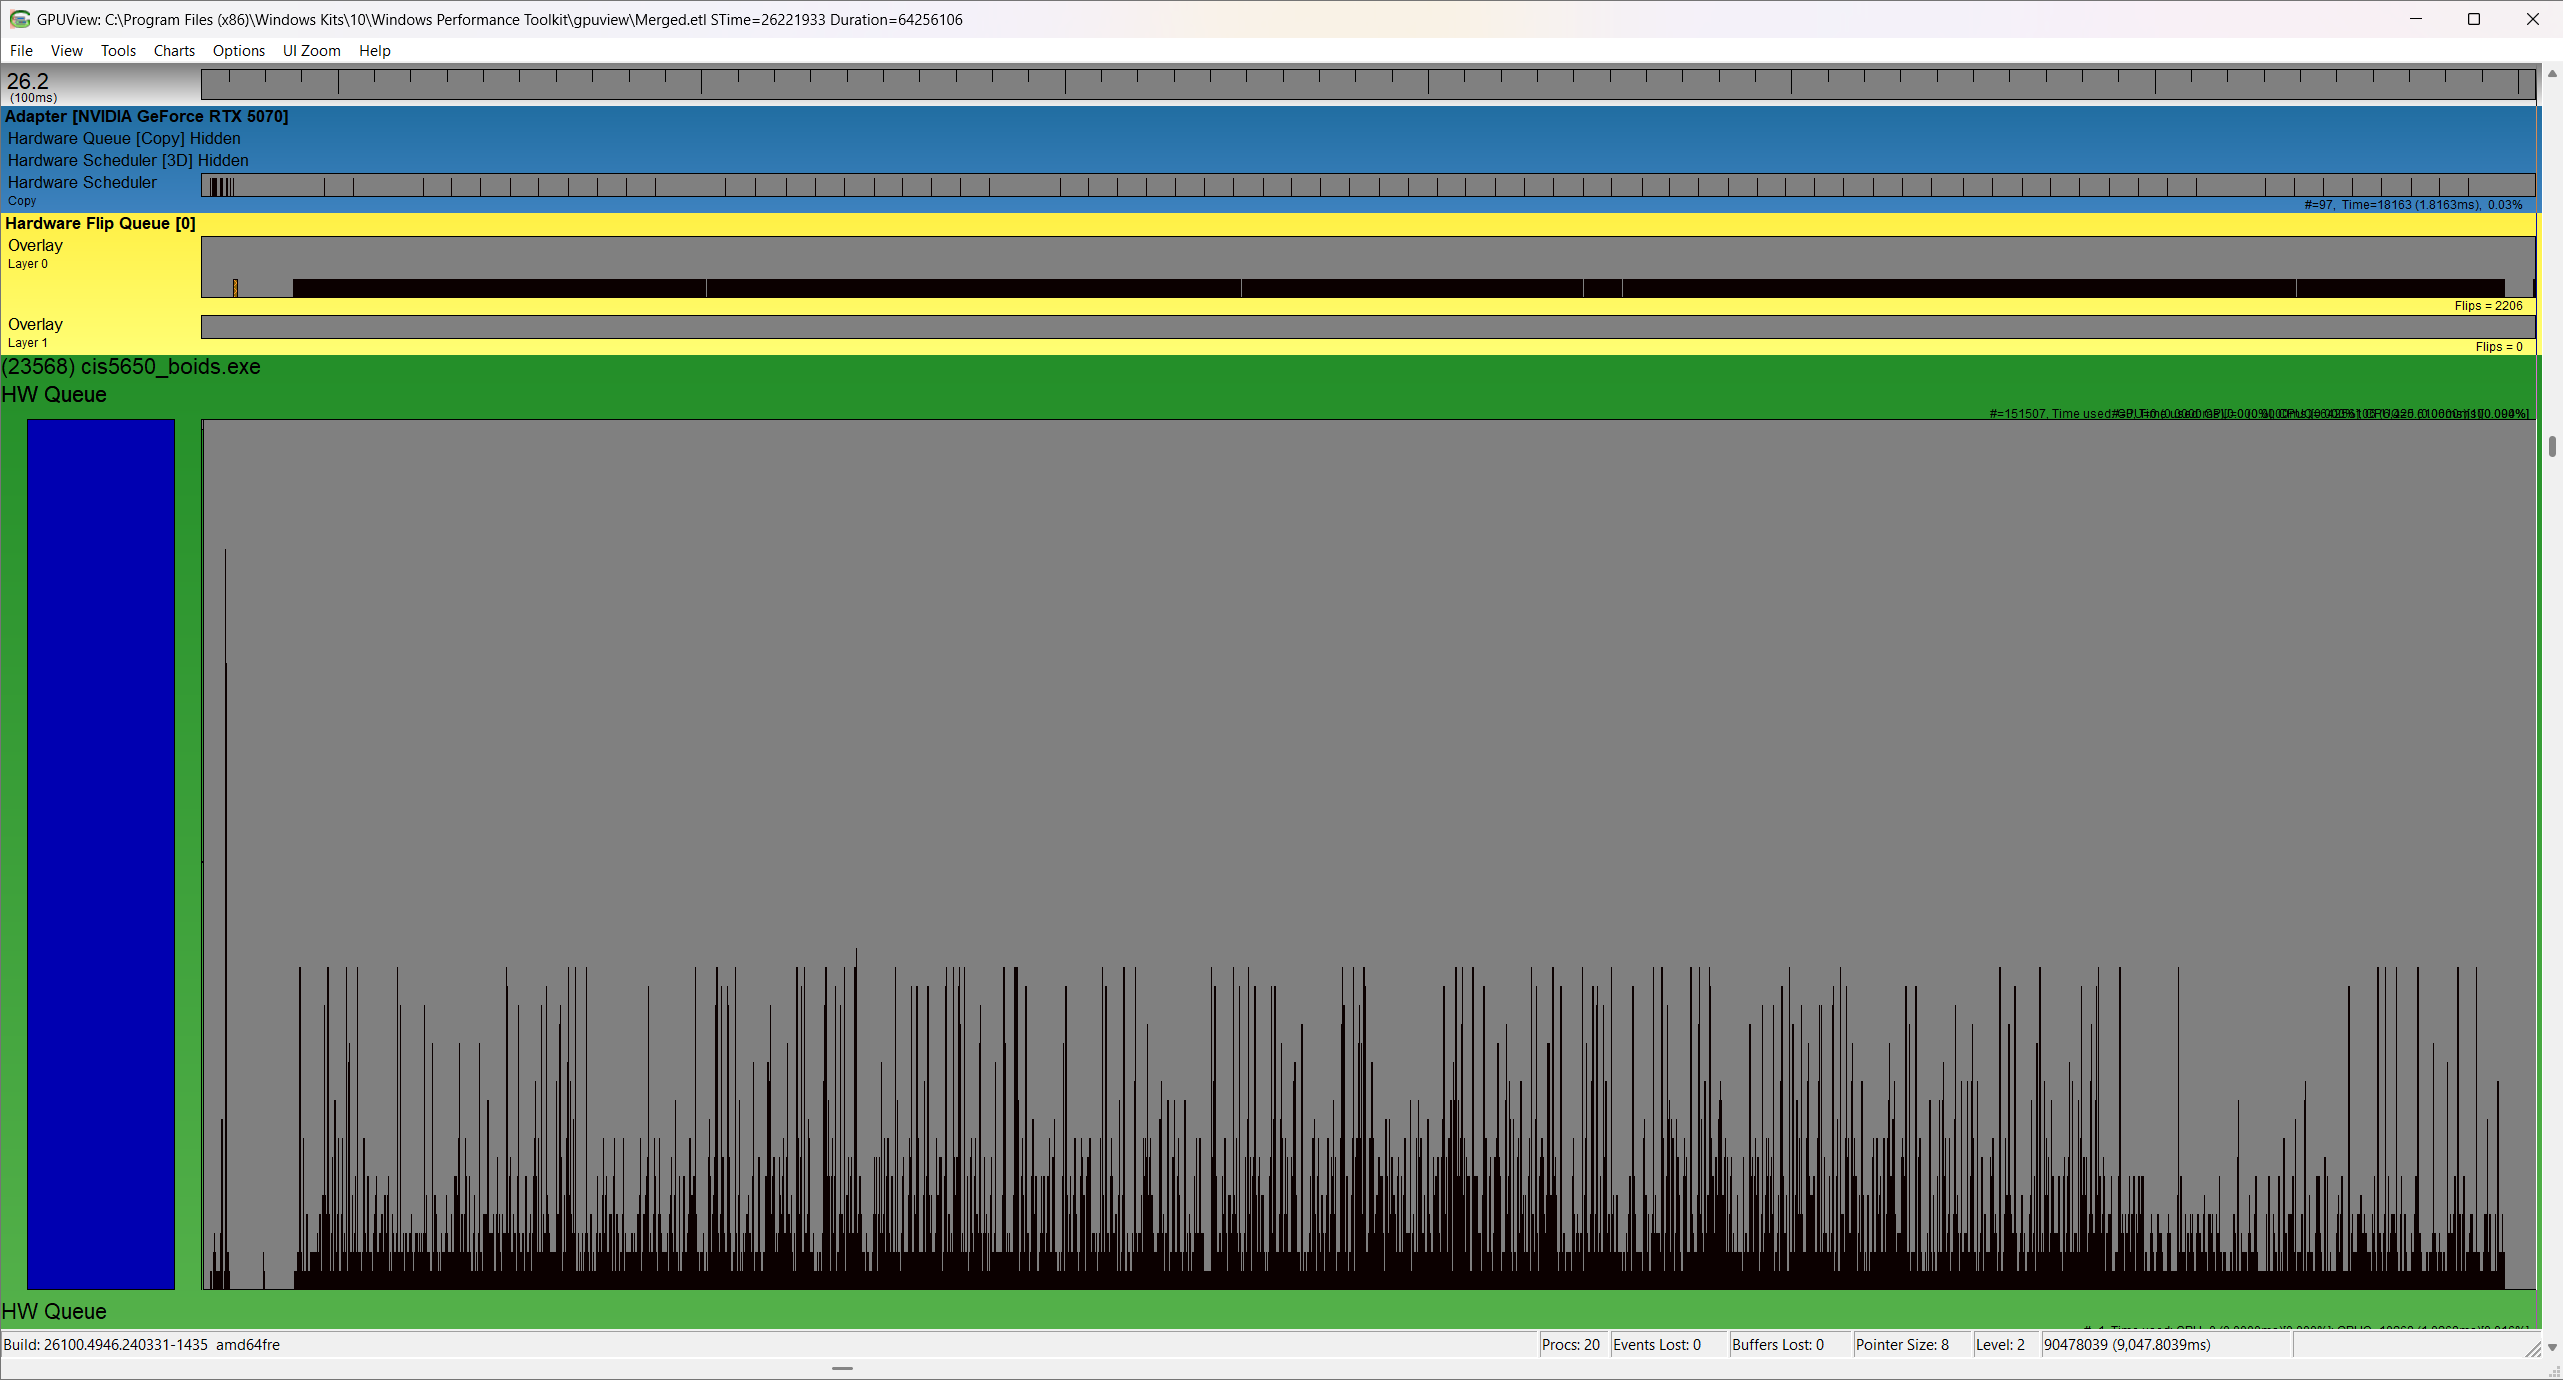
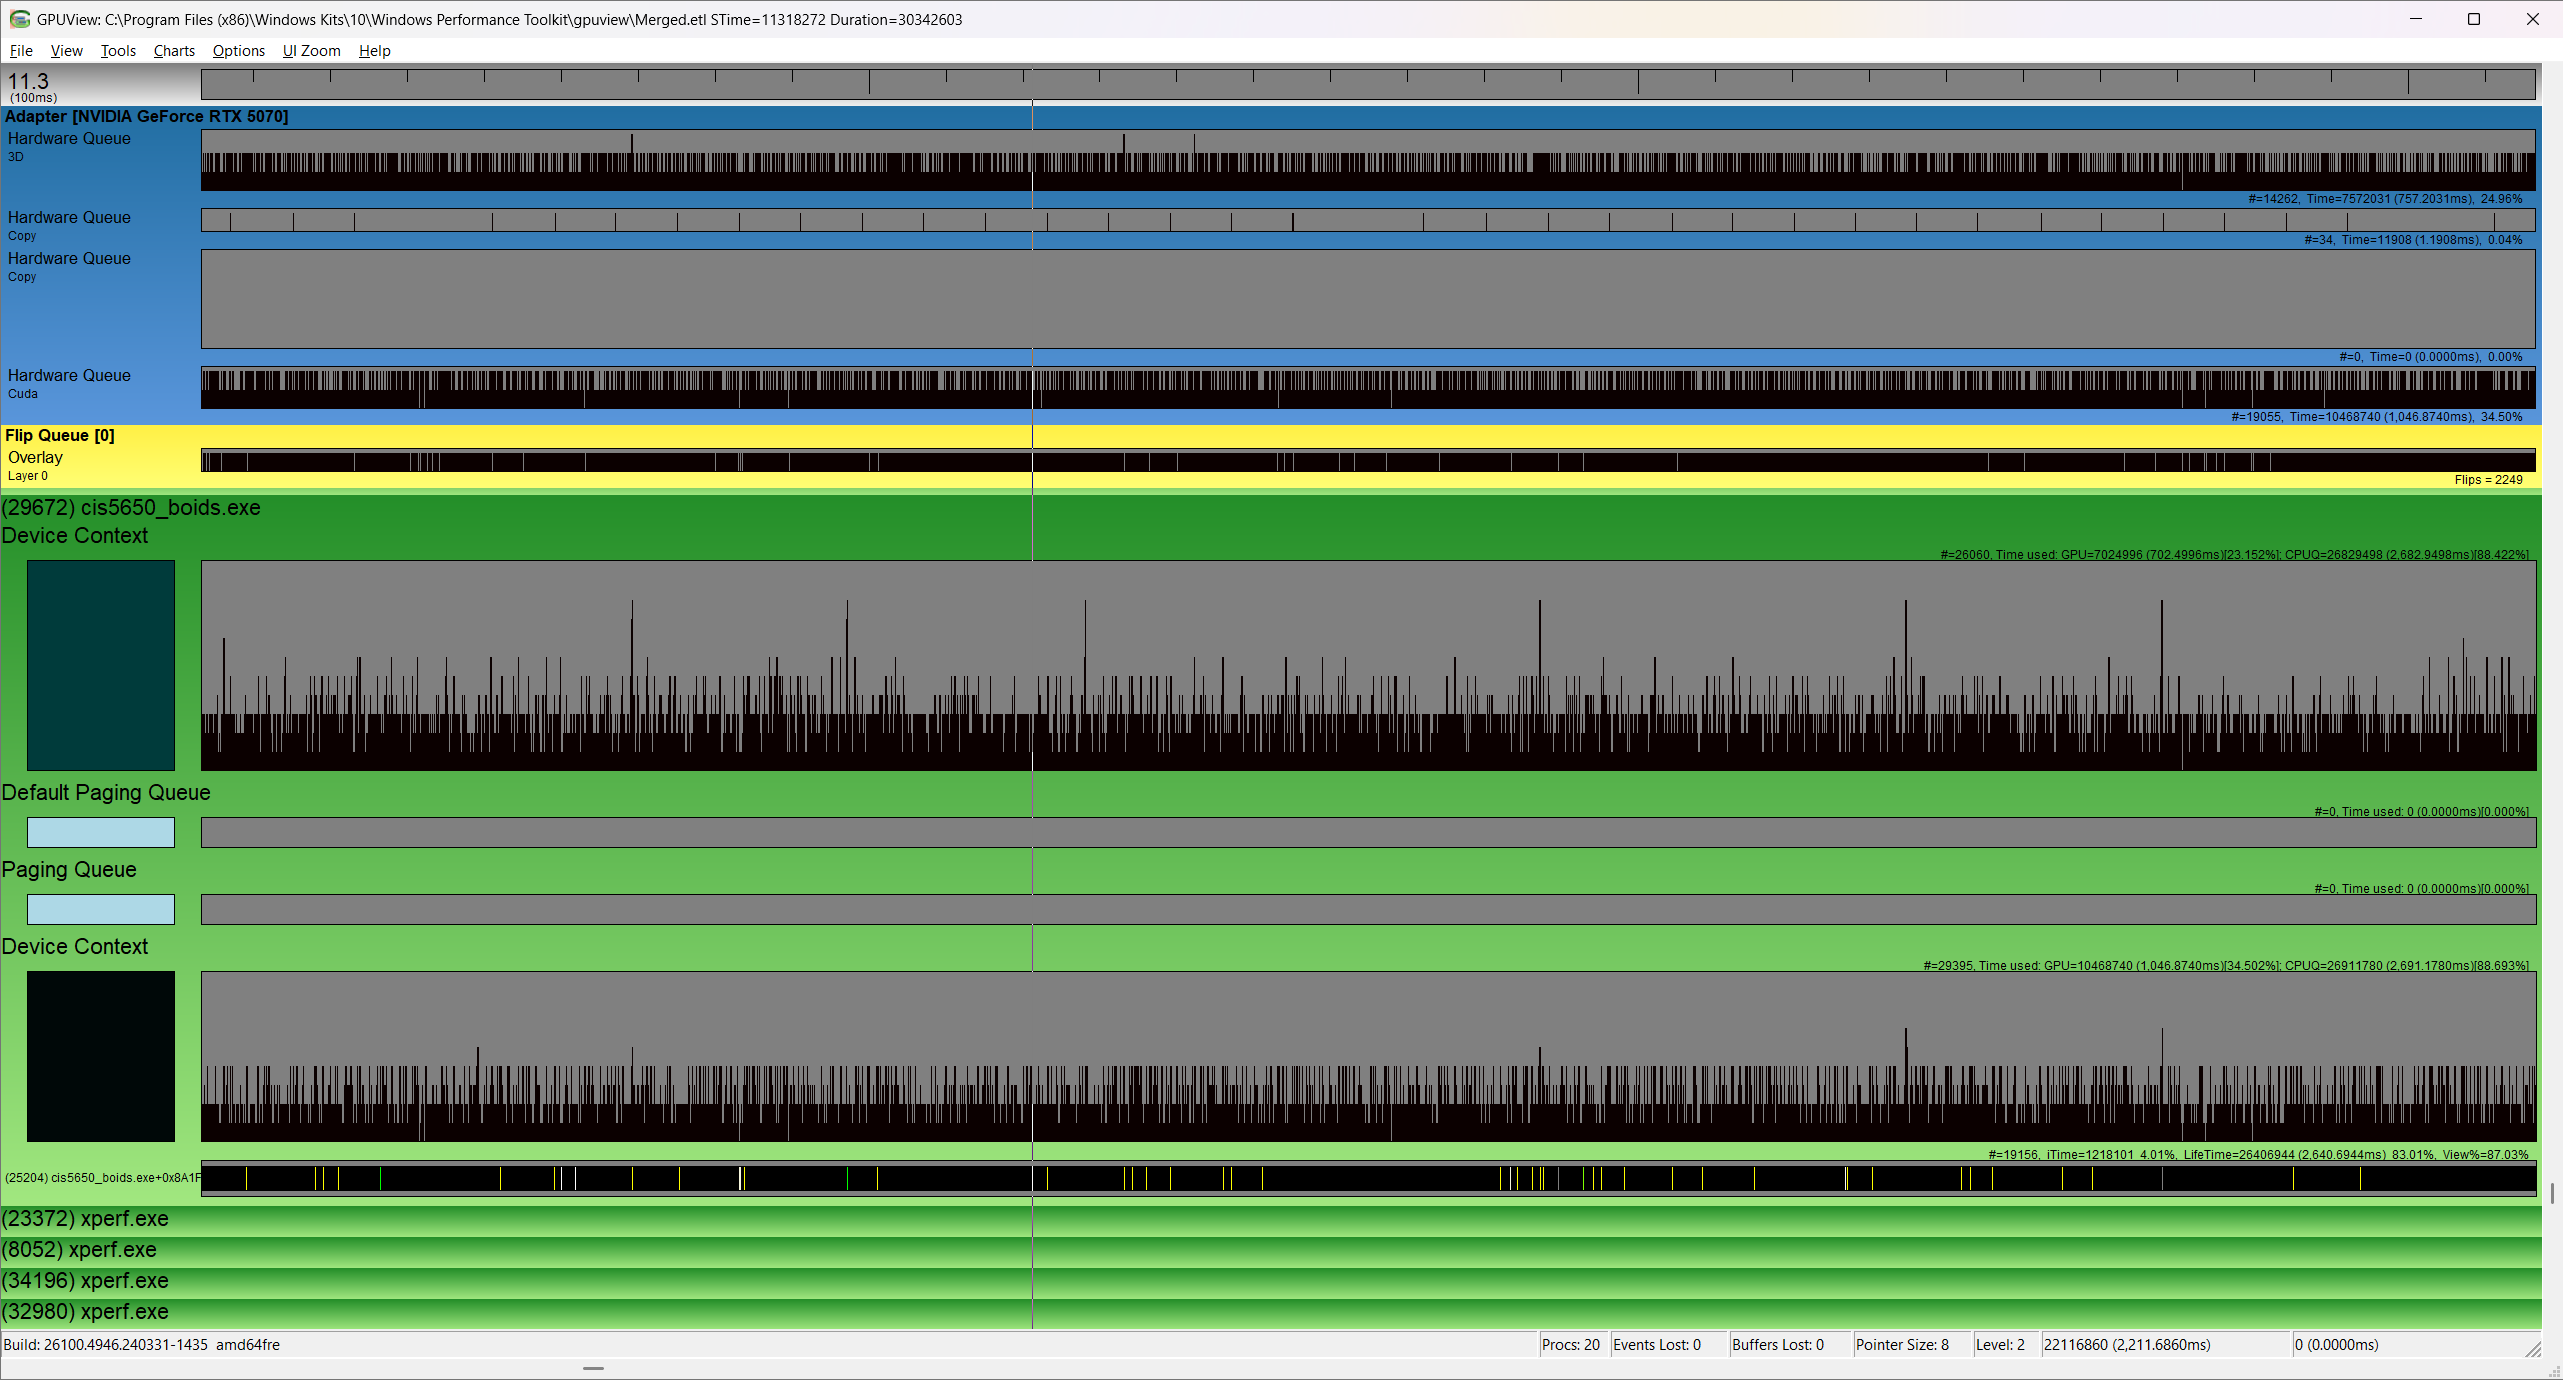
redo gpuview investigation
* redo GPUView investigation with Windows gpu scheduling off so I can actually see gpu work packets
* correct some statements in readme
* update data spreadsheet

conclusions are still the same though!

diff --git a/README.md b/README.md
@@ -38,13 +38,13 @@ This approach is the same as the uniform grid, except that the positions and vel
 
 ## Performance Audit
 
-As a first step in collecting performance data, I measured the time it took to render each frame across a ten second period for each implementation across a variety of boid counts. The results below are captured using NVIDIA's [FrameView](https://www.nvidia.com/en-us/geforce/technologies/frameview/). FrameView is an app for measuring framerates and many other performance metrics for games. I will be using the average framerate along with the milliseconds taken for each frame (MsBetweenPresents). FrameView's stats are gathered or calculated from ETW events in Windows (`DXGI` or `DxgKrnl` events for Windows DX graphics interface or graphics kernel respectively) so they are accurate at a operating system level. While FrameView is not open source, it is based off Intel's open source [PresentMon](https://github.com/GameTechDev/PresentMon) project, which should specifically be listening for some DXGI Present event (in GPUView, presents of this app show up as `D3D9 - Present` shortly after each Vsync interval). The framerate is calculated from the time between each present event (i.e. a new frame).
+As a first step in collecting performance data, I measured the time it took to render each frame across a ten second period for each implementation across a variety of boid counts. The results below are captured using NVIDIA's [FrameView](https://www.nvidia.com/en-us/geforce/technologies/frameview/). FrameView is an app for measuring framerates and many other performance metrics for games. I will be using the average framerate along with the milliseconds taken for each frame (MsBetweenPresents). FrameView's stats are gathered or calculated from ETW events in Windows (`DXGI` or `DxgKrnl` events for Windows DX graphics interface or graphics kernel respectively) so they are accurate at a operating system level. While FrameView is not open source, it is based off Intel's open source [PresentMon](https://github.com/GameTechDev/PresentMon) project, which should specifically be listening for the [DxgKrnl Present event](https://github.com/GameTechDev/PresentMon/blob/main/PresentData/ETW/Microsoft_Windows_DxgKrnl.h) associated with the process shortly after each Vsync interval. The framerate is calculated from the time between each present event (i.e. a new frame).
 
 All spreadsheets with raw data are contained in the `data` folder, which are organized in folders by implementation, then by number of Boids used.
 
 Before diving in, here are answers to a couple questions I anticipate you reading this to have:
 
-*Q: This app uses OpenGL and CUDA. Why is a D3D event being used to measure framerate?*  
+*Q: This app uses OpenGL and CUDA. Why is a DX event being used to measure framerate?*  
 A: Remember that the operating system (Windows in this case) is responsible for scheduling GPU work and compositing/presenting frames/windows. The swapchain in a non-DX API (OpenGL, Vulkan) is always going to be layered on top of a OS native method, or in the case of Vulkan you can use a DXGI swapchain directly.
 
 *Q: What is GPUView?*  
@@ -127,37 +127,33 @@ When I was looking at a frametime graph for the coherent grid, I noticed some su
 
 ![frametime](data/ms_presents_issue.png)
 
-Since they are so short (one frame duration), I suspect this is just due to something going on with the operating system, rather than some issue with the Boids application itself. To try and check, I inspected a GPUView capture. The view focused on the Boids process (`cis5650_boids.exe`) is here: 
+Since they are so short (one frame duration), I suspect this is just due to something going on with the operating system, rather than some issue with the Boids application itself. To try and check, I inspected a GPUView capture (without FrameView). The view focused on the boids process (`cis5650_boids.exe`) is here: 
 
 ![gpu_view_whole_view](images/new_gpu/gpuview.png)
 
-The queue for compute (dark blue, "HW Queue") has some short peaks in it, which suggests the quantity of work submitted per frame is not always consistent.
+There are some spikes in the graphics context (dark blue/green) which suggests the amount of work submitted per frame is not consistent.
 
 ![gpu_utilization](images/new_gpu/gpuview_utilization.png)
 
-Another thing to note is that if we expand the adapter graph it looks like the GPU is only at 36.98% utilization (circled in red) in this time period view, which suggests we could give the GPU more work.
+Another thing to note is that the GPU utilization for both graphics and CUDA in this time period view is very low (24.96% and 34.50% respectively, circled in red in above image), which suggests we could give the GPU more work.
 
-Looking at the locations of all the present events, they seem to be evenly spaced and I can't find/reproduce these sudden spikes.
+Looking at the locations of all the present events, they seem to be evenly spaced and I can't find/reproduce these sudden spikes: no distance is over two Vsync intervals like the 200ms spikes in the graph. Maybe something is happening only when FrameView is active?
 
 Since I'm already here, I'm curious about what this workload looks like to the OS. Going on a detour and zooming in on a set of three frames:
 
 ![gpu_view_frame](images/new_gpu/gpuview_merged.png)
 
-Each frame is separated by a vertical blue bar, which is the Vsync interval: my monitor is a 100hz panel. I've labeled each HW queue. The present queue only contains the small orange present packets, and the work in the graphics queue is less than compute because this is mostly a CUDA bound application. In the original trace, I can't fit all the HW queues vertically on my monitor at once so I've merged two screenshots together in image editing software.
+Each frame is separated by a vertical blue bar, which is the Vsync interval: my monitor is a 100hz panel. I've labeled each device context queue. In both graphics and CUDA, we can count eight or nine groups of queued work per Vsync interval. There are also eight or nine present packets (the tiny orange ones in the graphics context) so this translates to 8 * 100 = 800 or 9 * 100 = 900 FPS in the instant moment.
 
-In both graphics and compute, we can count eight or nine groups of queued work per Vsync interval. There are also eight or nine present packets in the present queue so this translates to ~8*100=800 FPS in the instant moment.
-
-One thing I notice is that there are a lot of empty bubbles between each group of work in both the graphics and compute queues. I've highlighted the bubbles in the graphics queue:
+One thing I notice is that there are a lot of empty bubbles between each group of work in both the graphics and CUDA queues. Highlighting the work in the CUDA queue in the second/center frame:
 
 ![bubbles](images/new_gpu/gpuview_serial.png)
 
-For every bubble in graphics, the time interval overlaps with compute work, and it's the same vice versa. We can see that graphics work per frame comes after a group of compute work. Within each queue individually a considerable amount of time in the frame is being spent not processing work: ideally we want to always be submitting work as much as possible to fully saturate the hardware. 
-
-Looking at what the GPU is doing, we can see holes too (since it is underutilized):
+Every time CUDA work is being processed by the OS or worked on by the GPU, nothing is going on in graphics and it's the same vice versa. We can see that graphics work per frame comes after a group of CUDA work (device context queues). Within each queue individually a considerable amount of time in the frame is being spent not processing work: ideally we want to always be submitting work as much as possible to fully saturate the hardware otherwise we get all these holes everywhere during GPU work.
 
 ![gpu_bubbles](images/new_gpu/gpuview_gpu.png)
 
-But because the app has a serial execution model that looks like
+Because the app has a serial execution model that looks like
 
 ```
 launch CUDA kernels
@@ -165,9 +161,9 @@ wait for CUDA kernels to finish (block CPU)
 some OpenGL calls
 ```
 
-these bubbles in compute are likely mostly from waiting on the CUDA kernels to finish before launching again to perform the next step of the simulation. I can think of two possible optimizations in the app:
+these bubbles in CUDA are likely mostly from waiting on the CUDA kernels to finish before launching again to perform the next step of the simulation. I can think of two possible optimizations in the app:
 
 1. Avoid using `cudaDeviceSynchronize` (CPU blocking) and use a GPU synchronization primitive instead to order the CUDA->OpenGL work. While we will still need to block at the beginning or end of every frame due to the sequential nature of the simulation update (can't start the next simulation step until the previous one finishes) this should pipeline the work submission more by allowing that barrier to be done on the GPU and not CPU.
-2. Optimize the CUDA kernels more. `cudaDeviceSynchronize` will return earlier and we can launch work again sooner. We should see the group of compute packets shrink horizontally (less time taken). Perhaps this is the more obvious opportunity given we are basically doing nothing on the CPU side, but it is good to confirm.
+2. Optimize the CUDA kernels more. `cudaDeviceSynchronize` will return earlier and we can launch work again sooner. We should see the groups of CUDA packets in the GPU HW queue shrink horizontally. Perhaps this is the more obvious opportunity given we are basically doing nothing on the CPU side, but it is good to confirm.
 
 In summary I could not find/reproduce the frame time spikes, but in the process I did identify and confirm the main opportunities for optimization.
